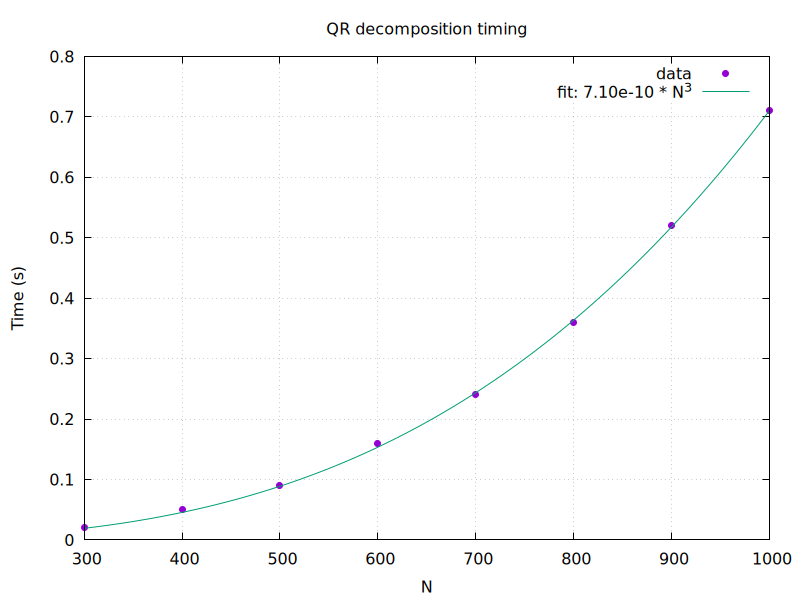
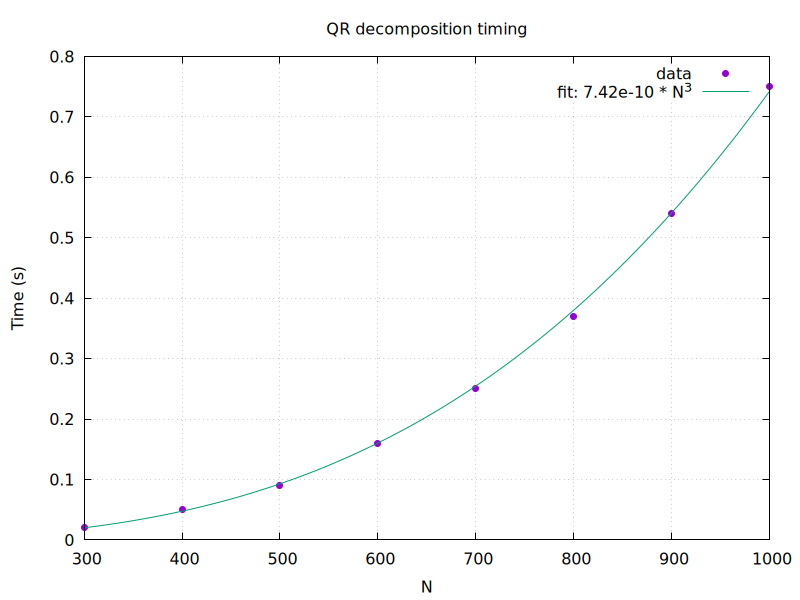
More details in Out.txt

diff --git a/homework/eigenvalues/main.cc b/homework/eigenvalues/main.cc
@@ -24,7 +24,7 @@ int main(int argc, char** argv){
 
     pp::matrix H(npoints,npoints);
 
-    // kinetic term
+    //kinetic term
     for(int i=0;i<npoints-1;i++){
         H(i,i)   = -2*(-0.5/dr/dr);
         H(i,i+1) =  1*(-0.5/dr/dr);
@@ -33,29 +33,17 @@ int main(int argc, char** argv){
 
     H(npoints-1,npoints-1) = -2*(-0.5/dr/dr);
 
-    // potential
+    //potential
     for(int i=0;i<npoints;i++)
         H(i,i) += -1/r[i];
 
-    // diagonalize hydrogen Hamiltonian
+    //diagonalize hydrogen Hamiltonian
     auto [e,Vhyd] = pp::jacobi(H);
 
-    // find ground state
+    //find ground state
     int k0 = 0;
     for(int k=1;k<e.size();k++)
         if(e[k] < e[k0]) k0 = k;
-
-    std::cout<<"Lowest hydrogen eigenvalues:\n";
-    for(int i=0;i<5;i++)
-        std::cout<<e[i]<<"\n";
-
-    std::cout << "\nComparison with exact hydrogen energies:\n";
-    std::cout << "n=1: numerical = " << e[0]
-          << ", exact = -0.5\n";
-    std::cout << "n=2: numerical = " << e[1]
-          << ", exact = -0.125\n";
-
-    std::cout<<"Ground state energy "<<e[k0]<<"\n";
 
     // -----------------------------
     // write wavefunction to file
@@ -96,16 +84,13 @@ int main(int argc, char** argv){
             A(j,i)=x;
         }
     }
+    std::cout << "\n\nRunning tests... " << "\n";
 
     A.print("\nRandom symmetric test matrix A:");
 
     auto [w,V] = pp::jacobi(A);
 
     V.print("\nDetermined eigenvectors:");
-
-    std::cout<<"\nEigenvalues:\n";
-    for(int i=0;i<w.size();i++)
-        std::cout<<w[i]<<"\n";
 
     pp::matrix D(n,n);
     for(int i=0;i<n;i++)
@@ -119,14 +104,35 @@ int main(int argc, char** argv){
     pp::matrix VVT  = V*VT;
 
     VTAV.print("\nV^TAV (should be diagonal):");
+    std::cout << "\nThis appears diagonal after multiple runs. Please inspect as well.\n";
+    std::cout<<"\nEigenvalues:\n";
+    for(int i=0;i<w.size();i++)
+        std::cout<<w[i]<<"\n";
     D.print("\nD (eigenvalues on diagonal):");
 
     VDVT.print("\nVDV^T (should equal original A):");
     A.print("\nOriginal A:");
+    std::cout << "\nThese seem to match, as expected. Please insepct as well.";
 
-    VTV.print("\nV^TV (should be identity):");
-    VVT.print("\nVV^T (should be identity):");
-    std::cout << "Notice the off-diagonal elements is zero within machine precision, as expected" << "\n";
-    std::cout << "For part B, check wave.png to see the numerically calculated wavefunctions, and the two excited states";
+    VTV.print("\nV^TV (should be identity matrix):");
+    VVT.print("\nVV^T (should be identity matrix):");
+    std::cout << "\nNotice the off-diagonal elements is zero within machine precision, as expected, thus we obtain the identity matrix." << "\n";
+    std::cout << "\nFor part B, check wave.png to see the numerically calculated eigenstates of the s-wave states, and the two excited states";
+    std::cout << "\nAlso notice that the numercial ground state and exact ground state match in form, but does not lie on top of each other exactly.";
+
+    std::cout<<"\nLowest hydrogen eigenvalues:\n";
+    for(int i=0;i<5;i++)
+        std::cout<<e[i]<<"\n";
+
+    std::cout << "\nComparison with exact hydrogen energies:\n";
+    std::cout << "n=1: numerical = " << e[0]
+          << ", exact = -0.5\n";
+    std::cout << "n=2: numerical = " << e[1]
+          << ", exact = -0.125\n";
+    std::cout << "As seen, these seem to match decently well." << "\n";
+
+    std::cout<<"Ground state energy "<<e[k0]<<"\n";
+
+    std::cout << "Please see dr_convergence.png and rmax_convergence.png for the convergence part of part B. It can be seen that as dr decreases, the numerical solution approaches the exact energy E_0 = -0.5, and as r_max increases, the numerical solution aproaches -0,5 as well. However, the biggest difference occour between r_max = 5 and r_max = 7." << "\n";
     return 0;
 }

diff --git a/homework/linear equations/main.cc b/homework/linear equations/main.cc
@@ -84,7 +84,7 @@ int main() {
 
     pp::matrix invD = decomp2.inverse();
     (D * invD).print("\nD*D^{-1}:");
-    std::cout << "The result should equal the identity matrix up to machine precision. Please inspect the result." << "\n";
+    std::cout << "The result should equal the identity matrix up to machine precision, which it seems to be. Please inspect the result." << "\n";
 
     std::cout << "For part C, check 'timing.png'. The fit is performed to a function proportional tio N^3. This is to ensure that execution time of QR-decomp of a N times N matrix is O(N^3). The fit nicely matches the points. Please insepct " << "\n";
 }
